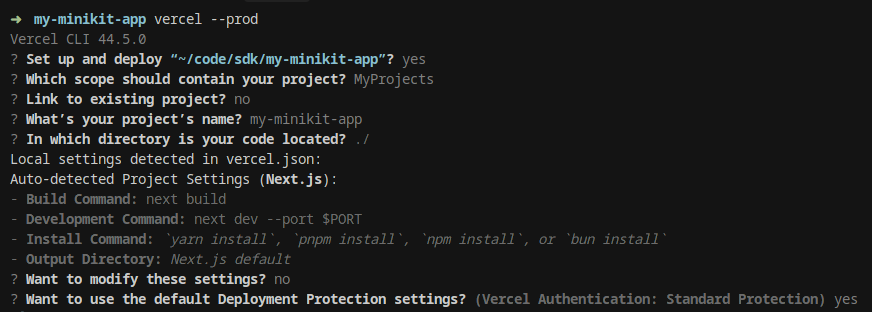
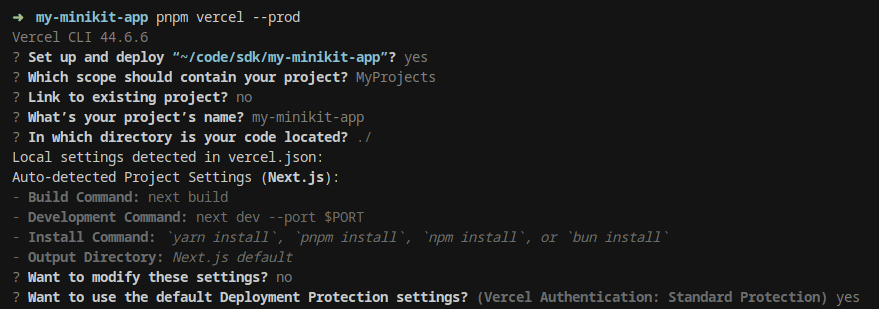
docs: update commands to use pnpm

diff --git a/packages/ui-react/docs/farcaster-miniapp-guide.md b/packages/ui-react/docs/farcaster-miniapp-guide.md
@@ -8,14 +8,14 @@
 
 ```shell
 # Install dependencies
-npm install
+pnpm install
 ```
 
 ### Create from Scratch
 
 ```shell
 # Create new MiniKit project
-npx create-onchain --mini
+pnpm create onchain --mini
 
 # ═════════════════════════════════════════════════════════════════════
 # ? Enter your Coinbase Developer Platform Client API Key: (optional) ›
@@ -26,7 +26,7 @@ npx create-onchain --mini
 cd your-mini-project
 
 # Install BetSwirl UI
-npm install @betswirl/ui-react
+pnpm add @betswirl/ui-react
 ```
 
 ### Set up Providers
@@ -168,7 +168,7 @@ export default function App() {
 ### Start dev server
 
 ```shell
-npm run dev
+pnpm dev
 ```
 
 Open in browser `http://localhost:3000/`
@@ -243,16 +243,16 @@ Choose one of the following deployment methods: **Vercel CLI** or **Git Integrat
 
 ```shell
 # Install Vercel CLI
-npm i -g vercel
+pnpm add -D vercel
 
 # Check for linting errors and fix if any
-npm run lint
+pnpm lint
 
 # Log in to Vercel
-vercel login
+pnpm vercel login
 
 # Run deployment from root project
-vercel --prod
+pnpm vercel --prod
 ```
 
 ![Vercel deploy](screenshots/vercel-deploy.png)

diff --git a/packages/ui-react/docs/react-guide.md b/packages/ui-react/docs/react-guide.md
@@ -6,15 +6,15 @@ bwonс## Create Demo Project
 # node --version
 # v24.2.0
 
-npm create vite@latest betswirl-ui-react-demo -- --template react-ts
+pnpm create vite@latest betswirl-ui-react-demo -- --template react-ts
 cd betswirl-ui-react-demo
-npm install
+pnpm install
 ```
 
 ## Verify Installation
 
 ```shell
-npm run dev
+pnpm dev
 # Open http://localhost:5173
 ```
 
@@ -23,7 +23,7 @@ npm run dev
 ### Install
 
 ```shell
-npm install @betswirl/ui-react
+pnpm add @betswirl/ui-react
 ```
 
 Package: [npmjs.com/package/@betswirl/ui-react](https://www.npmjs.com/package/@betswirl/ui-react)
@@ -121,7 +121,7 @@ import { CoinTossGame, DiceGame, RouletteGame, KenoGame, WheelGame } from '@bets
 ### Run
 
 ```shell
-npm run dev
+pnpm dev
 ```
 
 Open [http://localhost:5173](http://localhost:5173)

diff --git a/packages/ui-react/DEVELOPMENT.md b/packages/ui-react/DEVELOPMENT.md
@@ -182,7 +182,7 @@ pnpm change:publish      # Publish to npm
 git push
 ```
 
-Package is published to npm registry and users can install: `npm install @betswirl/ui-react@X.X.X`
+Package is published to npm registry and users can install: `pnpm add @betswirl/ui-react@X.X.X`
 
 ## Deployment
 

diff --git a/packages/ui-react/README.md b/packages/ui-react/README.md
@@ -26,7 +26,7 @@ This is a **game widget library** for BetSwirl protocol casino games built with 
 ## Installation
 
 ```shell
-npm install @betswirl/ui-react
+pnpm add @betswirl/ui-react
 ```
 
 ## Features
